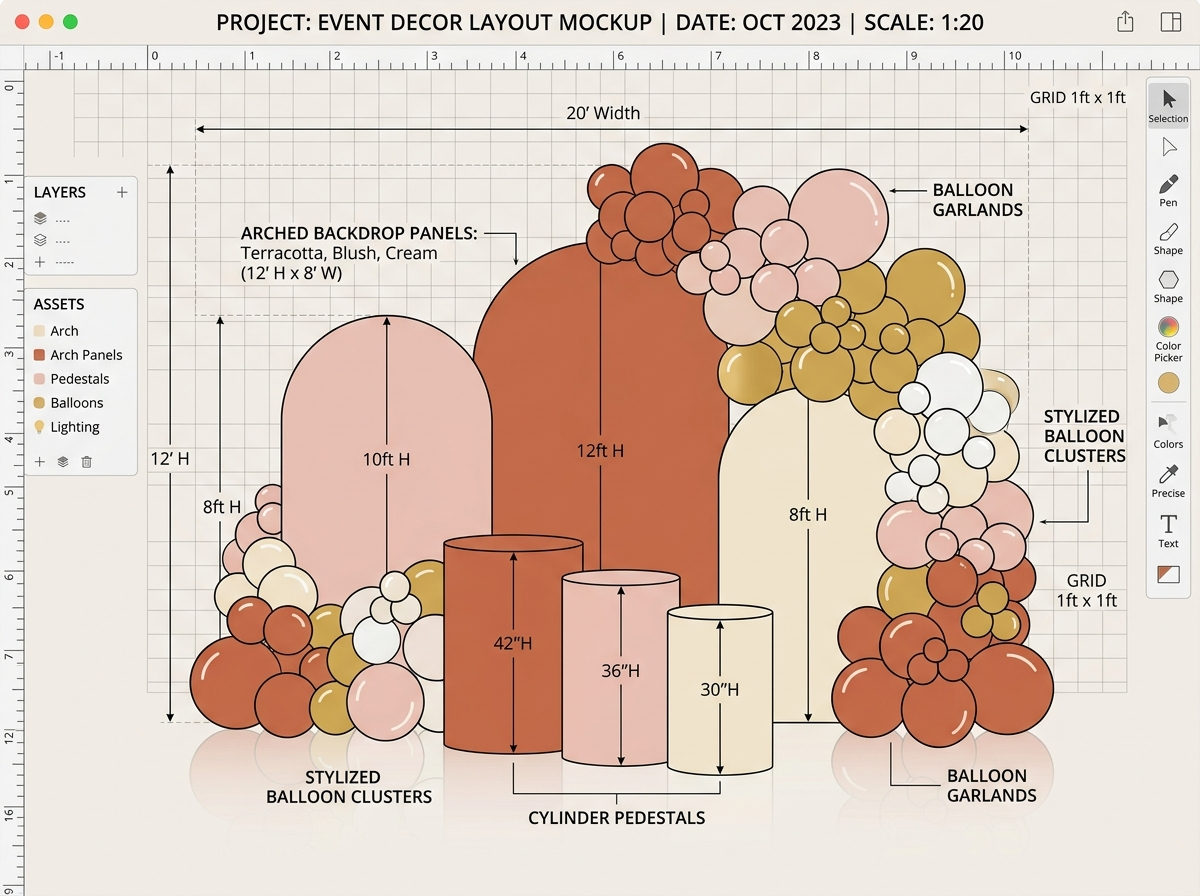
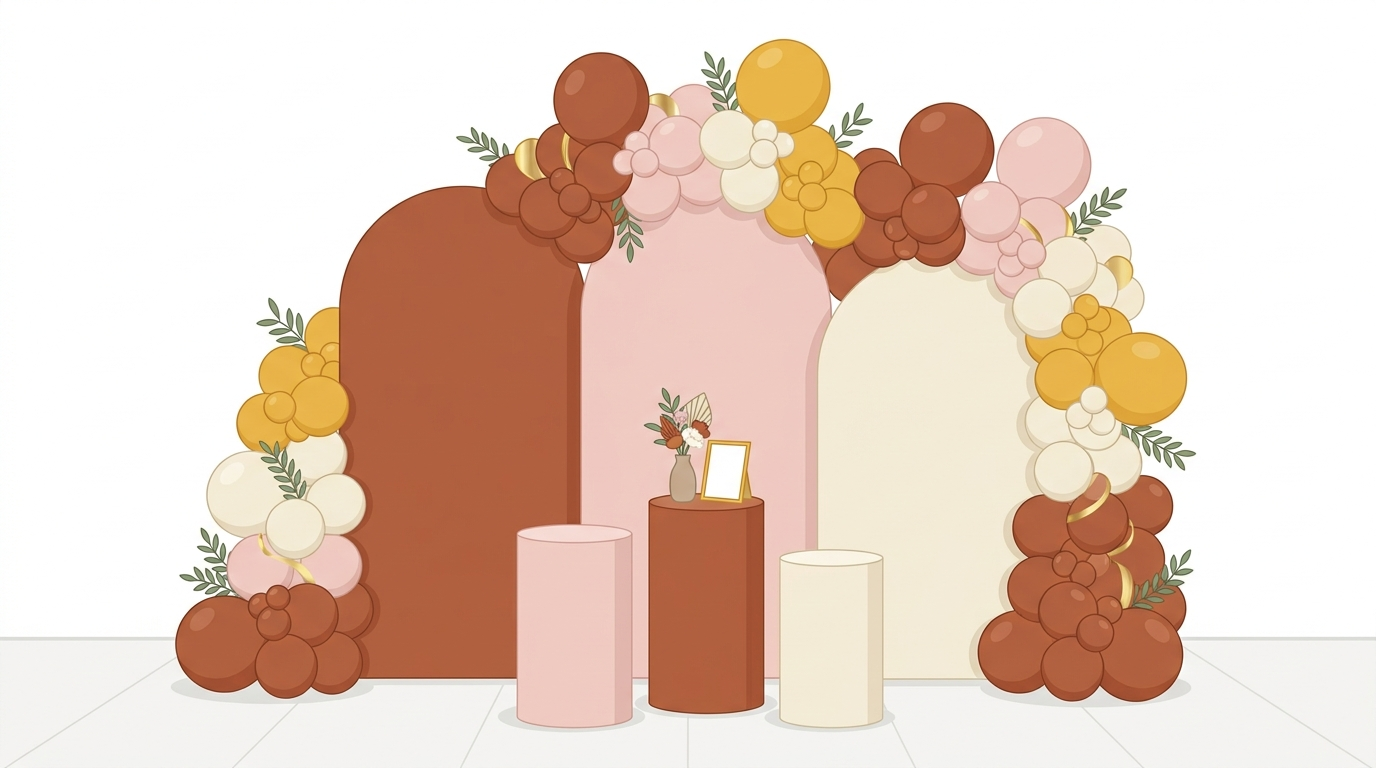
feat: substituir ImageComparator por demo animada de IA com 4 fases (mockup, gerando, reveal, slider)

diff --git a/src/components/ai-demo-section.tsx b/src/components/ai-demo-section.tsx
@@ -1,0 +1,363 @@
+'use client';
+/* eslint-disable @next/next/no-img-element */
+
+import { useState, useEffect, useRef } from 'react';
+import { Sparkles, Layers, ArrowLeftRight, Wand2, CheckCircle2 } from 'lucide-react';
+
+type Phase = 'mockup' | 'generating' | 'result' | 'compare';
+
+const GENERATION_STEPS = [
+  { label: 'Analisando composição…', pct: 15 },
+  { label: 'Identificando elementos…', pct: 32 },
+  { label: 'Calculando profundidade…', pct: 51 },
+  { label: 'Aplicando iluminação…', pct: 67 },
+  { label: 'Renderizando materiais…', pct: 82 },
+  { label: 'Finalizando detalhes…', pct: 95 },
+  { label: 'Imagem gerada com sucesso!', pct: 100 },
+];
+
+function ScanLine() {
+  return (
+    <div
+      className="absolute inset-x-0 h-[2px] bg-gradient-to-r from-transparent via-orange-400 to-transparent opacity-80 pointer-events-none"
+      style={{
+        animation: 'scanline 2.2s ease-in-out infinite',
+      }}
+    />
+  );
+}
+
+function ParticleDots() {
+  const dots = Array.from({ length: 18 });
+  return (
+    <div className="absolute inset-0 pointer-events-none overflow-hidden">
+      {dots.map((_, i) => (
+        <div
+          key={i}
+          className="absolute rounded-full bg-orange-400"
+          style={{
+            width: `${Math.random() * 4 + 2}px`,
+            height: `${Math.random() * 4 + 2}px`,
+            left: `${Math.random() * 100}%`,
+            top: `${Math.random() * 100}%`,
+            opacity: 0,
+            animation: `particle-fade ${1.2 + Math.random() * 1.5}s ease-in-out ${Math.random() * 2}s infinite`,
+          }}
+        />
+      ))}
+    </div>
+  );
+}
+
+export default function AIDemoSection() {
+  const [phase, setPhase] = useState<Phase>('mockup');
+  const [stepIndex, setStepIndex] = useState(0);
+  const [progress, setProgress] = useState(0);
+  const [sliderPos, setSliderPos] = useState(50);
+  const [hasAutoPlayed, setHasAutoPlayed] = useState(false);
+
+  const containerRef = useRef<HTMLDivElement>(null);
+  const sectionRef = useRef<HTMLDivElement>(null);
+  const isDragging = useRef(false);
+
+  // Auto-play on scroll into view
+  useEffect(() => {
+    if (hasAutoPlayed) return;
+    const observer = new IntersectionObserver(
+      ([entry]) => {
+        if (entry.isIntersecting) {
+          setHasAutoPlayed(true);
+          setTimeout(() => startGeneration(), 800);
+          observer.disconnect();
+        }
+      },
+      { threshold: 0.4 }
+    );
+    if (sectionRef.current) observer.observe(sectionRef.current);
+    return () => observer.disconnect();
+  // eslint-disable-next-line react-hooks/exhaustive-deps
+  }, [hasAutoPlayed]);
+
+  function startGeneration() {
+    setPhase('generating');
+    setStepIndex(0);
+    setProgress(0);
+
+    let step = 0;
+    const interval = setInterval(() => {
+      if (step >= GENERATION_STEPS.length - 1) {
+        clearInterval(interval);
+        setStepIndex(GENERATION_STEPS.length - 1);
+        setProgress(100);
+        setTimeout(() => {
+          setPhase('result');
+          setTimeout(() => setPhase('compare'), 1800);
+        }, 600);
+        return;
+      }
+      step++;
+      setStepIndex(step);
+      setProgress(GENERATION_STEPS[step].pct);
+    }, 520);
+  }
+
+  function reset() {
+    setPhase('mockup');
+    setStepIndex(0);
+    setProgress(0);
+    setSliderPos(50);
+  }
+
+  const handlePointerDown = (e: React.PointerEvent) => {
+    isDragging.current = true;
+    (e.target as HTMLElement).setPointerCapture(e.pointerId);
+  };
+  const handlePointerUp = (e: React.PointerEvent) => {
+    isDragging.current = false;
+    (e.target as HTMLElement).releasePointerCapture(e.pointerId);
+  };
+  const handlePointerMove = (e: React.PointerEvent) => {
+    if (!isDragging.current || !containerRef.current) return;
+    const rect = containerRef.current.getBoundingClientRect();
+    const x = Math.max(0, Math.min(e.clientX - rect.left, rect.width));
+    setSliderPos((x / rect.width) * 100);
+  };
+
+  return (
+    <>
+      <style>{`
+        @keyframes scanline {
+          0% { top: -2px; }
+          100% { top: 100%; }
+        }
+        @keyframes particle-fade {
+          0%, 100% { opacity: 0; transform: scale(0.5); }
+          50% { opacity: 0.8; transform: scale(1); }
+        }
+        @keyframes reveal-right {
+          from { clip-path: inset(0 100% 0 0); opacity: 0; }
+          to { clip-path: inset(0 0% 0 0); opacity: 1; }
+        }
+        @keyframes shimmer-slide {
+          0% { background-position: -200% center; }
+          100% { background-position: 200% center; }
+        }
+        @keyframes pulse-glow {
+          0%, 100% { box-shadow: 0 0 20px 2px rgba(234,88,12,0.15); }
+          50% { box-shadow: 0 0 40px 8px rgba(234,88,12,0.35); }
+        }
+        .shimmer-text {
+          background: linear-gradient(90deg, #ea580c 0%, #f97316 40%, #fbbf24 50%, #f97316 60%, #ea580c 100%);
+          background-size: 200% auto;
+          -webkit-background-clip: text;
+          -webkit-text-fill-color: transparent;
+          background-clip: text;
+          animation: shimmer-slide 2s linear infinite;
+        }
+        .result-reveal {
+          animation: reveal-right 1.2s cubic-bezier(0.22,1,0.36,1) forwards;
+        }
+        .glow-pulse {
+          animation: pulse-glow 2s ease-in-out infinite;
+        }
+      `}</style>
+
+      <div ref={sectionRef} className="w-full">
+        <div className="relative rounded-2xl overflow-hidden border border-zinc-200/80 shadow-xl bg-white">
+
+          {/* Phase: Mockup */}
+          {phase === 'mockup' && (
+            <div className="relative">
+              <div className="absolute top-4 left-4 z-10 bg-zinc-900/80 backdrop-blur-sm px-3 py-1.5 rounded-full text-xs font-semibold text-white shadow-sm flex items-center gap-1.5 border border-zinc-700">
+                <Layers className="w-3.5 h-3.5" />
+                Mockup no editor
+              </div>
+              <img
+                src="/demo-mockup.jpg"
+                alt="Mockup criado no editor FestaLab"
+                className="w-full aspect-[16/9] object-cover block"
+              />
+              <div className="absolute inset-0 bg-gradient-to-t from-black/60 via-transparent to-transparent flex items-end justify-center pb-8">
+                <button
+                  onClick={startGeneration}
+                  className="glow-pulse flex items-center gap-3 bg-orange-600 hover:bg-orange-500 text-white font-semibold px-8 py-4 rounded-full shadow-2xl shadow-orange-900/40 transition-all hover:scale-105 active:scale-95 cursor-pointer text-sm"
+                >
+                  <Wand2 className="w-4 h-4" />
+                  Gerar visualização com IA
+                  <Sparkles className="w-4 h-4" />
+                </button>
+              </div>
+            </div>
+          )}
+
+          {/* Phase: Generating */}
+          {phase === 'generating' && (
+            <div className="relative bg-zinc-950">
+              <img
+                src="/demo-mockup.jpg"
+                alt="Mockup sendo processado"
+                className="w-full aspect-[16/9] object-cover block opacity-30"
+              />
+              <ScanLine />
+              <ParticleDots />
+              <div
+                className="absolute inset-0 pointer-events-none opacity-10"
+                style={{
+                  backgroundImage: 'linear-gradient(rgba(251,146,60,0.5) 1px, transparent 1px), linear-gradient(90deg, rgba(251,146,60,0.5) 1px, transparent 1px)',
+                  backgroundSize: '40px 40px',
+                }}
+              />
+              <div className="absolute inset-0 flex flex-col items-center justify-center gap-6 z-10 px-6">
+                <div className="relative w-20 h-20">
+                  <div className="absolute inset-0 rounded-full border-4 border-zinc-700" />
+                  <div
+                    className="absolute inset-0 rounded-full border-4 border-transparent border-t-orange-500"
+                    style={{ animation: 'spin 0.9s linear infinite' }}
+                  />
+                  <div className="absolute inset-0 flex items-center justify-center">
+                    <Sparkles className="w-7 h-7 text-orange-400" />
+                  </div>
+                </div>
+                <div className="text-center">
+                  <p className="shimmer-text text-lg font-semibold mb-1">
+                    {GENERATION_STEPS[stepIndex].label}
+                  </p>
+                  <p className="text-zinc-500 text-xs">IA processando seu cenário…</p>
+                </div>
+                <div className="w-full max-w-sm">
+                  <div className="flex justify-between text-[10px] text-zinc-500 mb-1.5">
+                    <span>Gerando</span>
+                    <span>{progress}%</span>
+                  </div>
+                  <div className="w-full h-1.5 bg-zinc-800 rounded-full overflow-hidden">
+                    <div
+                      className="h-full bg-gradient-to-r from-orange-500 to-amber-400 rounded-full transition-all duration-500"
+                      style={{ width: `${progress}%` }}
+                    />
+                  </div>
+                </div>
+                <div className="flex gap-1.5">
+                  {GENERATION_STEPS.slice(0, -1).map((_, i) => (
+                    <div
+                      key={i}
+                      className={`w-1.5 h-1.5 rounded-full transition-all duration-300 ${
+                        i < stepIndex ? 'bg-orange-500' : i === stepIndex ? 'bg-orange-400 scale-125' : 'bg-zinc-700'
+                      }`}
+                    />
+                  ))}
+                </div>
+              </div>
+            </div>
+          )}
+
+          {/* Phase: Result reveal */}
+          {phase === 'result' && (
+            <div className="relative overflow-hidden">
+              <img
+                src="/demo-mockup.jpg"
+                alt="Mockup original"
+                className="w-full aspect-[16/9] object-cover block"
+              />
+              <img
+                src="/demo-real.jpg"
+                alt="Resultado gerado pela IA"
+                className="absolute inset-0 w-full h-full object-cover result-reveal"
+              />
+              <div className="absolute top-4 right-4 z-10 bg-orange-600 text-white text-xs font-bold rounded-full px-3 py-1.5 shadow-lg flex items-center gap-1.5">
+                <CheckCircle2 className="w-3.5 h-3.5" />
+                Gerado com IA!
+              </div>
+            </div>
+          )}
+
+          {/* Phase: Compare slider */}
+          {phase === 'compare' && (
+            <div
+              ref={containerRef}
+              className="relative w-full aspect-[16/9] select-none touch-none cursor-ew-resize overflow-hidden"
+              onPointerMove={handlePointerMove}
+              onPointerUp={handlePointerUp}
+              onPointerLeave={handlePointerUp}
+            >
+              <img
+                src="/demo-mockup.jpg"
+                alt="Mockup criado no FestaLab"
+                className="absolute inset-0 w-full h-full object-cover pointer-events-none"
+                draggable={false}
+              />
+              <div
+                className="absolute inset-0 overflow-hidden pointer-events-none"
+                style={{ width: `${sliderPos}%` }}
+              >
+                <img
+                  src="/demo-real.jpg"
+                  alt="Resultado fotorrealista gerado por IA"
+                  className="absolute inset-0 h-full object-cover pointer-events-none"
+                  style={{ width: containerRef.current?.clientWidth ?? '100vw' }}
+                  draggable={false}
+                />
+              </div>
+              <div className="absolute top-4 left-4 z-10 bg-white/90 backdrop-blur-sm px-3 py-1.5 rounded-full text-xs font-semibold text-orange-700 shadow-sm flex items-center gap-1.5 border border-orange-200/60 pointer-events-none">
+                <Sparkles className="w-3.5 h-3.5 text-orange-600" />
+                Resultado IA
+              </div>
+              <div className="absolute top-4 right-4 z-10 bg-zinc-900/80 backdrop-blur-sm px-3 py-1.5 rounded-full text-xs font-semibold text-white shadow-sm flex items-center gap-1.5 border border-zinc-700 pointer-events-none">
+                <Layers className="w-3.5 h-3.5" />
+                Mockup
+              </div>
+              <div
+                className="absolute top-0 bottom-0 w-0.5 bg-white shadow-[0_0_6px_rgba(0,0,0,0.5)] z-20 pointer-events-none"
+                style={{ left: `${sliderPos}%` }}
+              >
+                <div
+                  className="absolute top-1/2 left-1/2 -translate-x-1/2 -translate-y-1/2 w-12 h-12 bg-white rounded-full flex items-center justify-center shadow-lg border border-zinc-200 text-zinc-500 cursor-ew-resize hover:scale-105 transition-transform pointer-events-auto"
+                  onPointerDown={handlePointerDown}
+                >
+                  <ArrowLeftRight className="w-5 h-5" />
+                </div>
+              </div>
+              <input
+                type="range" min="0" max="100" value={sliderPos}
+                onChange={(e) => setSliderPos(Number(e.target.value))}
+                aria-label="Arraste para comparar mockup com resultado da IA"
+                className="absolute opacity-0 w-full h-full z-30 cursor-ew-resize"
+              />
+            </div>
+          )}
+        </div>
+
+        {/* Footer hint */}
+        <div className="mt-4 flex flex-col items-center gap-2">
+          {phase === 'compare' && (
+            <>
+              <p className="text-sm font-medium text-zinc-700 flex items-center gap-2">
+                <ArrowLeftRight className="w-4 h-4 text-zinc-400" />
+                Arraste para comparar mockup e resultado
+              </p>
+              <button
+                onClick={reset}
+                className="text-xs text-zinc-400 hover:text-orange-600 transition-colors cursor-pointer underline underline-offset-2"
+              >
+                Ver demo novamente
+              </button>
+            </>
+          )}
+          {(phase === 'generating' || phase === 'result') && (
+            <p className="text-sm text-zinc-500 flex items-center gap-2">
+              <Sparkles className="w-3.5 h-3.5 text-orange-500" />
+              IA gerando visualização fotorrealista…
+            </p>
+          )}
+          {phase === 'mockup' && (
+            <p className="text-sm text-zinc-500">
+              ↑ Clique no botão para ver a IA em ação
+            </p>
+          )}
+          <p className="text-xs text-zinc-400 max-w-md text-center">
+            Visualização com IA para referência criativa. Medidas, materiais e proporções podem variar.
+          </p>
+        </div>
+      </div>
+    </>
+  );
+}

diff --git a/src/components/mode-selector.tsx b/src/components/mode-selector.tsx
@@ -18,7 +18,7 @@ import {
 import { Button } from '@/components/ui/button';
 import InstallPrompt from '@/components/pwa/install-prompt';
 import { FESTA_TEMPLATES, FestaTemplate } from '@/lib/templates';
-import ImageComparator from '@/components/image-comparator';
+import AIDemoSection from '@/components/ai-demo-section';
 import { SignInButton, UserButton, useAuth } from '@clerk/nextjs';
 import ProjectsDashboard from '@/components/projects-dashboard';
 import { TemplateGallery } from '@/components/templates/template-gallery';
@@ -265,17 +265,7 @@ export default function ModeSelector({ onSelectMode, onOpenProject }: ModeSelect
             </p>
           </div>
 
-          <ImageComparator
-            pairs={[
-              {
-                id: '1',
-                name: 'Decoração Inicial',
-                mockupUrl: '/demo-mockup.jpg',
-                realUrl: '/demo-real.jpg',
-                isComparable: false,
-              }
-            ]}
-          />
+          <AIDemoSection />
         </div>
       </section>
 
